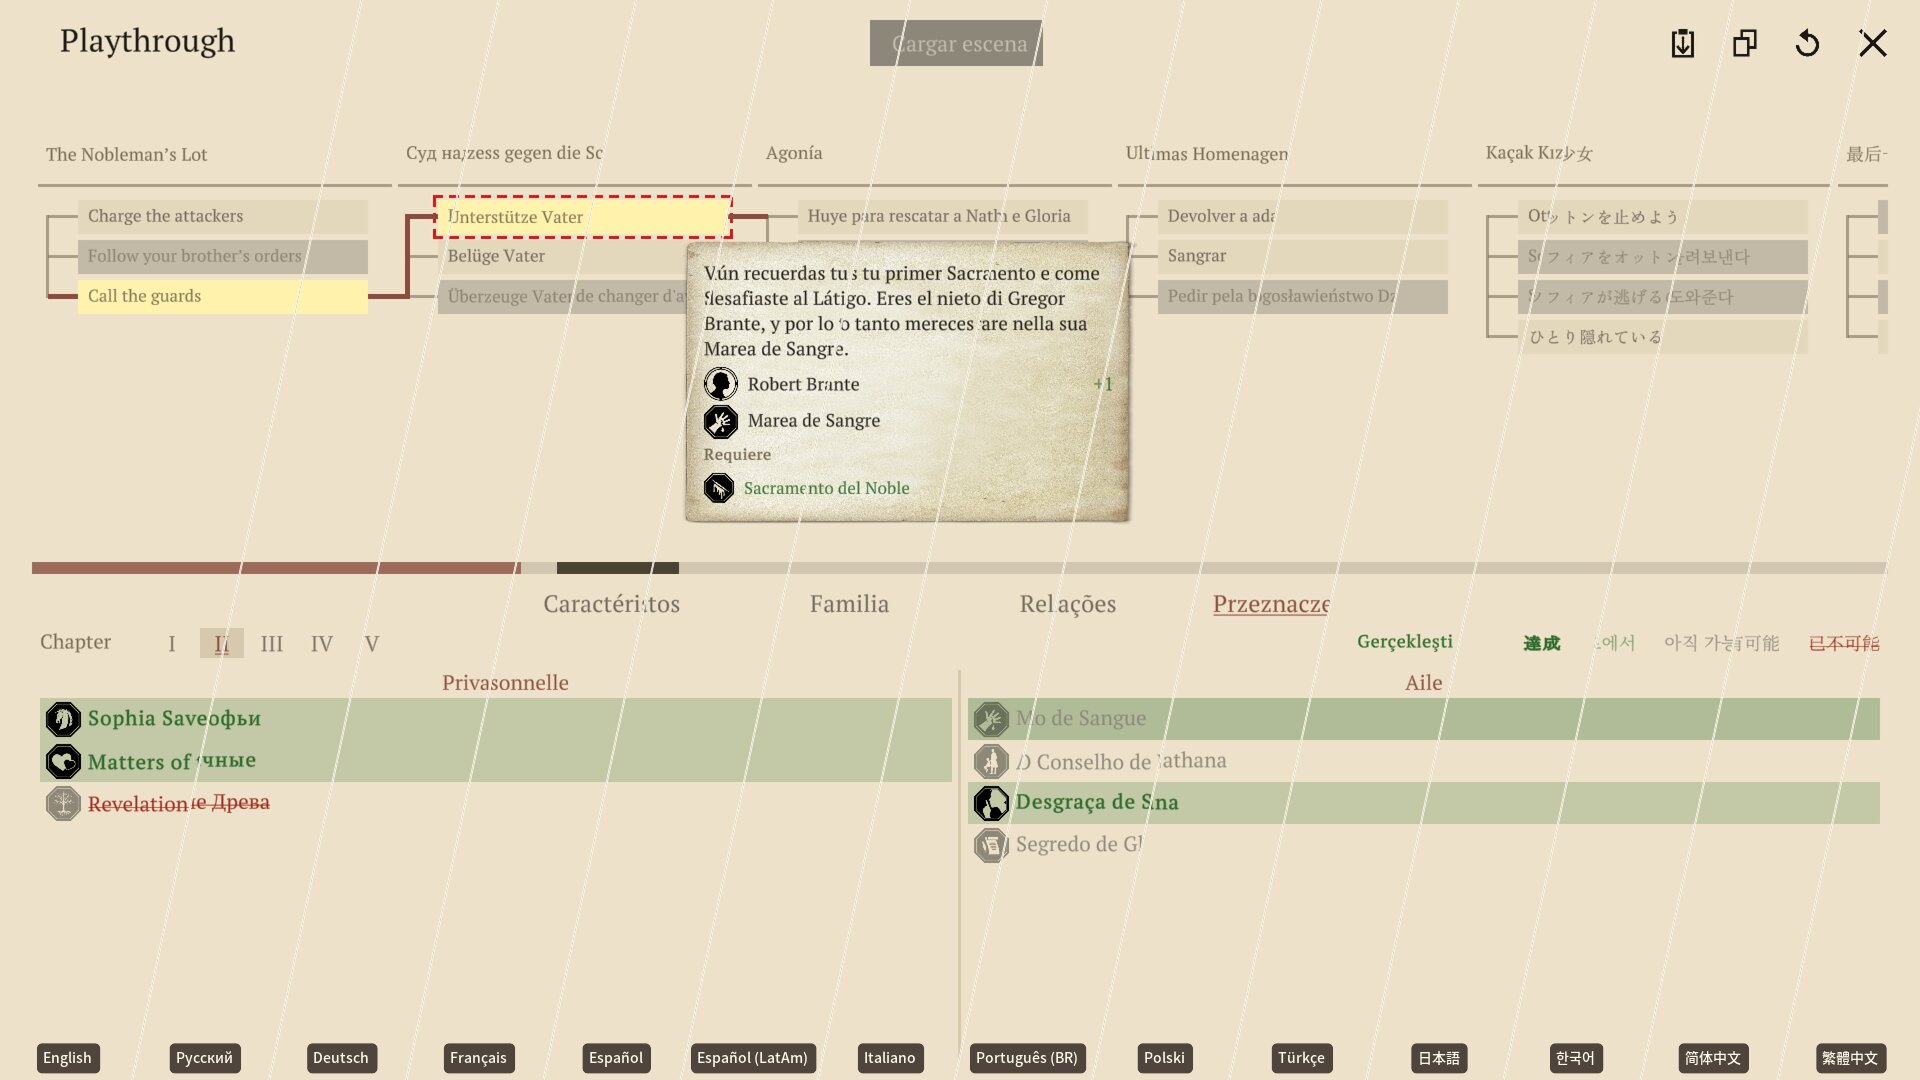
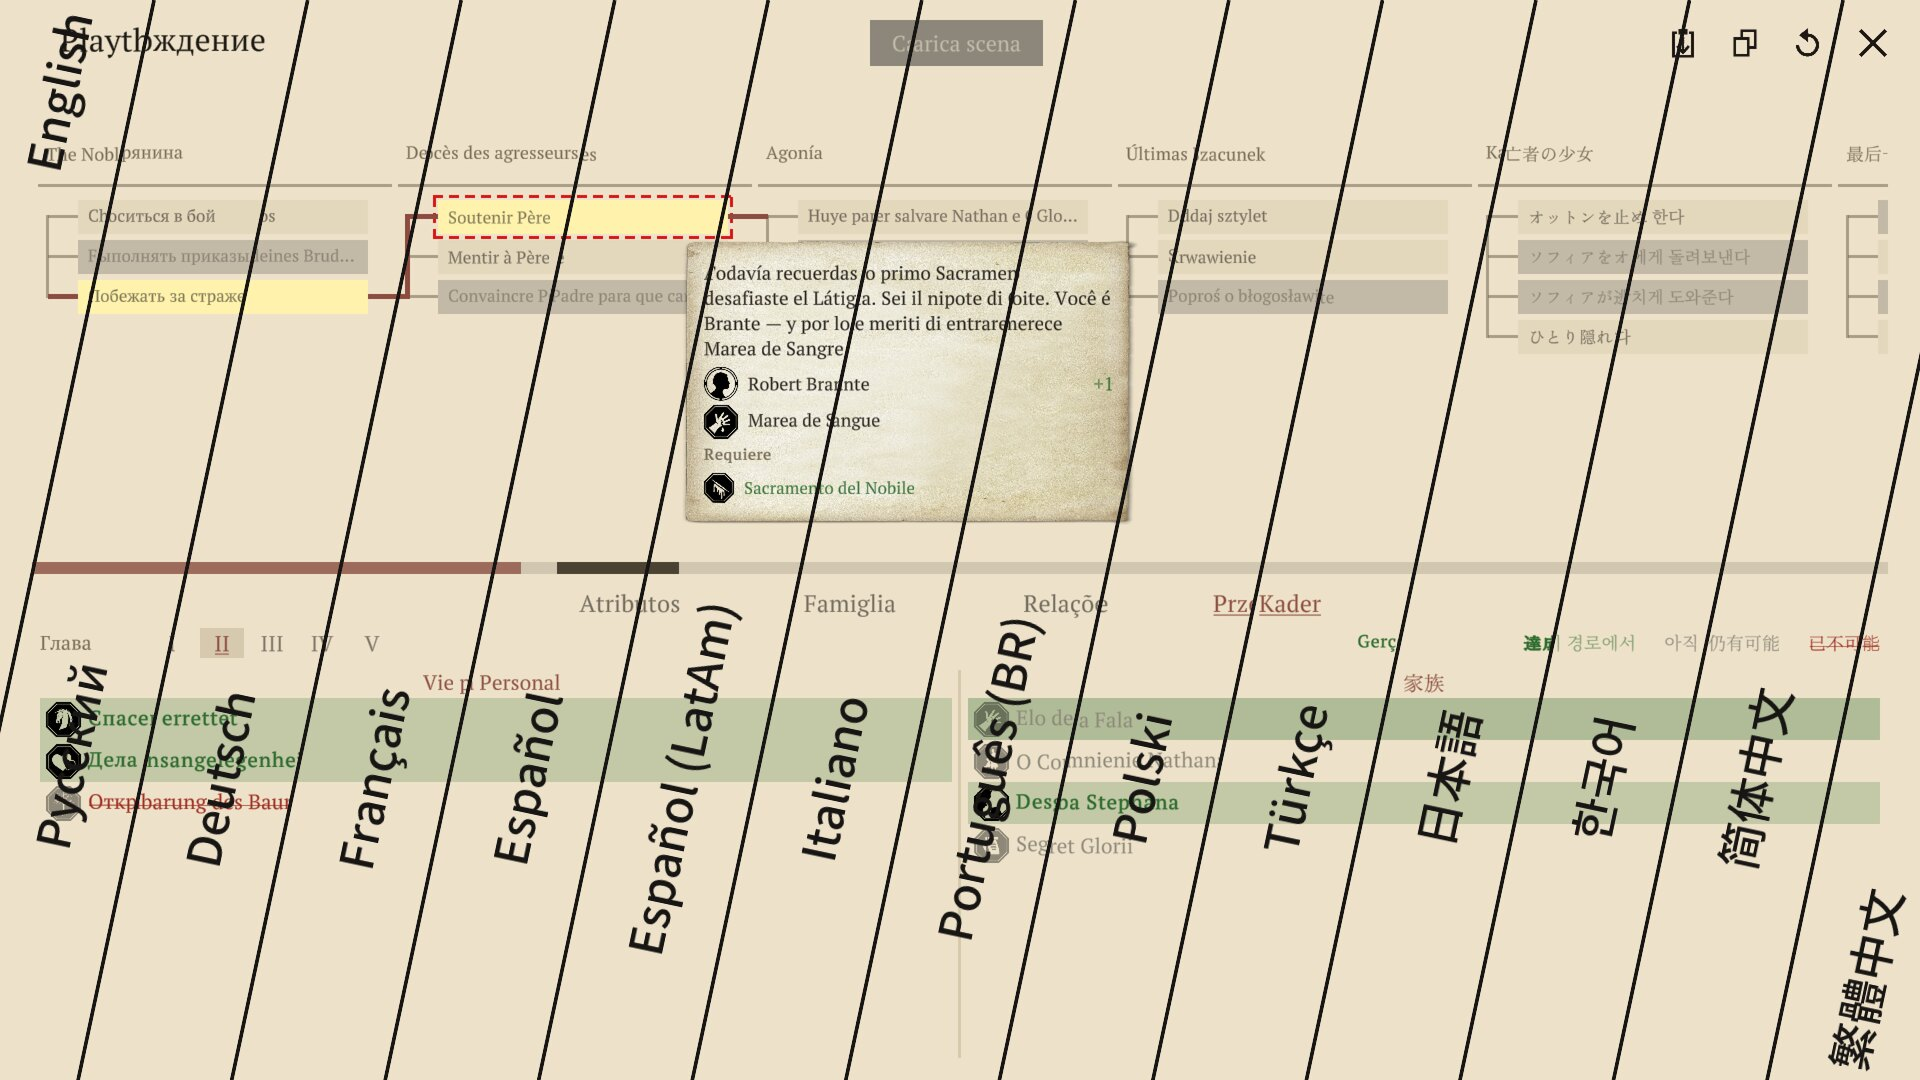
Languages.jpg: equal bands, dark seams, each language written along its band

diff --git a/tools/language_bands.py b/tools/language_bands.py
@@ -87,16 +87,15 @@ def main():
     W, H = args.width, round(h * scale)
     n = len(shots)
     # boundary k runs from (top[k], 0) down to (top[k] - lean, H), leaning
-    # right; the boundaries cross the labels' line at equal steps, so every
-    # band is as wide there and its label sits in its middle
+    # right. Every band is as wide (band): the first starts left of the
+    # picture at its foot, the last ends right of it at its head, so the
+    # outer two show a little less of themselves, none more
     lean = H * math.tan(math.radians(args.tilt))
-    size = max(11, round(W / n / 10))                   # the labels' size
-    label_y = H - size * 2.4
-    at_label = lean * (label_y + size / 2) / H          # how far a boundary leans by then
-    top = [k * W / n + at_label for k in range(n + 1)]
+    band = (W + lean) / n
+    top = [k * band for k in range(n + 1)]
     bot = [x - lean for x in top]
-    top[0], bot[0] = -lean * 2, -lean * 2          # the outer bands reach the edges
-    top[n], bot[n] = W + lean * 2, W + lean * 2
+    ink = "rgb(24,22,20)"                               # seams and names
+    seam = max(2, round(W / 640))
 
     font = None if args.no_labels else label_font()
     with tempfile.TemporaryDirectory() as tmp:
@@ -111,30 +110,35 @@ def main():
             cmd += ["(", str(shot), "-resize", "%dx%d!" % (W, H), str(mask),
                     "-alpha", "off", "-compose", "CopyOpacity", "-composite", ")",
                     "-compose", "over", "-composite"]
-        # a thin light seam along each boundary
+        # a dark seam along each boundary
         for k in range(1, n):
-            cmd += ["-stroke", "rgba(255,250,235,0.85)", "-strokewidth", "2",
+            cmd += ["-stroke", ink, "-strokewidth", str(seam),
                     "-draw", "line %.1f,0 %.1f,%d" % (top[k], bot[k], H)]
-        # each band's language near the bottom, on a dark tag
+        # each band's language written along it, leaning as it does: its
+        # letters about a quarter of the band's width
         if font:
-            y = label_y
+            size = round(band * 0.3)
             for k, shot in enumerate(shots):
                 key = re.sub(r"^\d\d_", "", shot.stem)
                 lbl = tmp / ("label%02d.png" % k)
                 run(["magick", "-background", "none", "-font", font, "-pointsize", str(size),
-                     "-fill", "rgb(255,250,235)", "label:" + NAMES.get(key, key), str(lbl)])
+                     "-fill", ink, "label:" + NAMES.get(key, key),
+                     "-rotate", "%.2f" % -(90 - args.tilt), "+repage", str(lbl)])
                 lw, lh = size_of(lbl)
-                # the band's middle at the label's height (the outer bands:
-                # between their inner edge and the picture's edge)
-                at = lambda xs: xs[0] + (xs[1] - xs[0]) * ((y + lh / 2) / H)
-                left = at((top[k], bot[k])) if k > 0 else 0.0
-                right = at((top[k + 1], bot[k + 1])) if k < n - 1 else float(W)
-                cx = (left + right) / 2
-                pad = size * 0.45
-                cmd += ["-fill", "rgba(40,30,25,0.8)", "-stroke", "none", "-draw",
-                        "roundrectangle %.1f,%.1f %.1f,%.1f 5,5" % (
-                            cx - lw / 2 - pad, y - pad * 0.5, cx + lw / 2 + pad, y + lh + pad * 0.5),
-                        str(lbl), "-geometry", "+%d+%d" % (round(cx - lw / 2), round(y)),
+                # low in the band, where the stat panel is quiet; raised or
+                # lowered where the band's middle there is off the picture
+                mid = (top[k] + top[k + 1]) / 2             # the band's middle at the head
+                cy = H * 0.72
+                lo, hi = lh / 2 + seam, H - lh / 2 - seam
+                margin = lw / 2 + band * 0.1
+                cx = mid - lean * cy / H
+                if cx < margin:
+                    cy = (mid - margin) * H / lean
+                elif cx > W - margin:
+                    cy = (mid - (W - margin)) * H / lean
+                cy = min(max(cy, lo), hi)
+                cx = mid - lean * cy / H
+                cmd += [str(lbl), "-geometry", "+%d+%d" % (round(cx - lw / 2), round(cy - lh / 2)),
                         "-compose", "over", "-composite"]
         cmd += ["-quality", "86", args.out]
         run(cmd)
